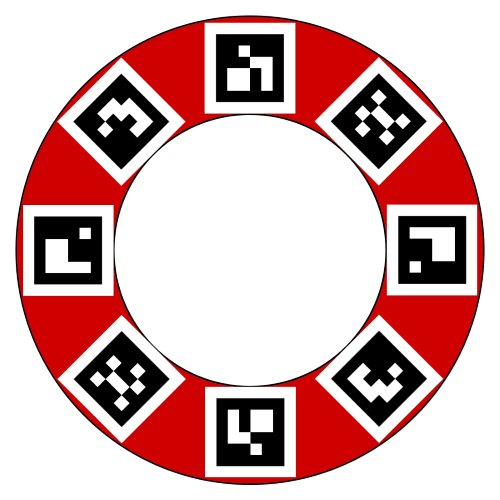
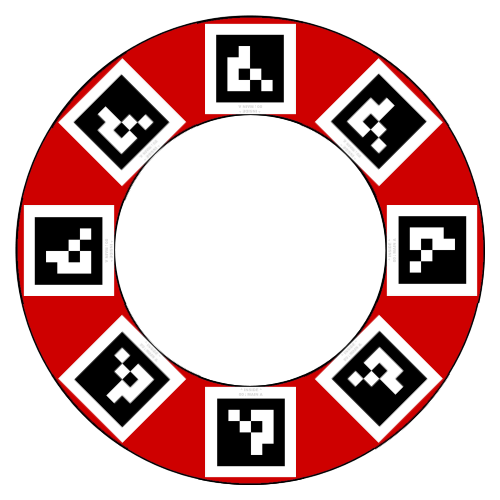
Increase the accuracy in AR lap timer. Change the specification of the AR marker.

diff --git a/src/ofApp.cpp b/src/ofApp.cpp
@@ -10,7 +10,7 @@
 
 // view
 ofVideoGrabber grabber[CAMERA_MAXNUM];
-ofColor myColorYellow, myColorWhite, myColorLGray, myColorLayer;
+ofColor myColorYellow, myColorWhite, myColorLGray, myColorLayer, myColorAlert;
 ofxTrueTypeFontUC myFontNumber, myFontLabel, myFontLap;
 ofxTrueTypeFontUC myFontNumberSub, myFontLabelSub, myFontLapSub;
 ofImage wallImage;
@@ -150,6 +150,8 @@ void ofApp::update() {
                 for (int i = 0; i < cameraNum; i++) {
                     grabber[i].update();
                     camView[i].foundMarkerNum = 0;
+                    camView[i].foundValidMarkerNum = 0;
+                    camView[i].enoughValidMarkers = false;
                     camView[i].prevElapsedSec = raceDuraSecs + WATCH_COUNT_SEC;
                 }
                 toggleRace();
@@ -178,12 +180,39 @@ void ofApp::update() {
         float elp = elapsedTime;
         if (grabber[i].isFrameNew() && arLapEnabled == true) {
             camView[i].aruco.detectMarkers(grabber[i].getPixels());
-            int num = camView[i].aruco.getNumMarkers();
-            if (num == 0 && camView[i].foundMarkerNum >= ARAP_MNUM_THR) {
+            // all markers
+            int anum = camView[i].aruco.getNumMarkers();
+            if (anum == 0) {
+                camView[i].flickerCount++;
+                if (camView[i].flickerCount <= 3) {
+                    anum = camView[i].foundMarkerNum; // anti flicker
+                } else {
+                    camView[i].flickerCount = 0;
+                }
+            } else {
+                camView[i].flickerCount = 0;
+            }
+            // vaild markers
+            int vnum = camView[i].aruco.getNumMarkersValidGate();
+            if (vnum == 0) {
+                camView[i].flickerValidCount++;
+                if (camView[i].flickerValidCount <= 3) {
+                    vnum = camView[i].foundValidMarkerNum; // anti flicker
+                } else {
+                    camView[i].flickerValidCount = 0;
+                }
+            } else {
+                camView[i].flickerValidCount = 0;
+            }
+            // passed gate
+            if (anum == 0 && camView[i].enoughValidMarkers == true
+                && camView[i].foundMarkerNum == camView[i].foundValidMarkerNum) {
                 float lap = elp - camView[i].prevElapsedSec;
                 if (lap < minLapTime) {
                     // ignore too short lap
                     camView[i].foundMarkerNum = 0;
+                    camView[i].foundValidMarkerNum = 0;
+                    camView[i].enoughValidMarkers = false;
                     continue;
                 }
                 if (camView[i].totalLaps >= raceDuraLaps) {
@@ -198,6 +227,8 @@ void ofApp::update() {
                 if (total == raceDuraLaps) {
                     // finish
                     camView[i].foundMarkerNum = 0;
+                    camView[i].foundValidMarkerNum = 0;
+                    camView[i].enoughValidMarkers = false;
                     finishSound.play();
                     speakLap((i + 1), lap, total);
                     continue;
@@ -231,16 +262,17 @@ void ofApp::update() {
                 }
                 speakLap((i + 1), lap, total);
             }
-            if (num == 0) {
-                camView[i].foundMarkerNum = 0;
-            } else if (num > camView[i].foundMarkerNum) {
-                camView[i].foundMarkerNum = num;
+            camView[i].foundMarkerNum = anum;
+            camView[i].foundValidMarkerNum = vnum;
+            if (anum == 0) {
+                camView[i].enoughValidMarkers = false;
+            } else if (vnum >= ARAP_MNUM_THR) {
+                camView[i].enoughValidMarkers = true;
             }
         }
     }
     if (lockOnEnabled == true && lapcnt > 0 && lockcnt == 0) {
-        // xxx experimental
-        resetCameraSolo();
+        resetCameraSolo(); // experimental
     }
     // finish race by laps
     if (raceStarted == true) {
@@ -270,6 +302,27 @@ void drawCamera(int idx) {
     // image
     ofSetColor(myColorWhite);
     grabber[i].draw(camView[i].posX, camView[i].posY, camView[i].width, camView[i].height);
+    // AR marker
+    if (arLapEnabled == true && raceStarted == true && camView[i].totalLaps < raceDuraLaps) {
+        // rect
+        ofPushMatrix();
+        ofTranslate(camView[i].posX, camView[i].posY);
+        ofScale(camView[i].imageScale, camView[i].imageScale, 1);
+        ofSetLineWidth(2);
+        camView[i].aruco.draw2dGate(myColorYellow, myColorAlert);
+        ofPopMatrix();
+        // meter
+        ofSetColor(myColorYellow);
+        string lv = "";
+        for (int j = 0; j < camView[i].foundValidMarkerNum; j++) {
+            lv += "|";
+        }
+        if (isSub) {
+            myFontLapSub.drawString(lv, camView[i].lapPosX, camView[i].lapPosY + (LAP_HEIGHT / 2) + 5);
+        } else {
+            myFontLap.drawString(lv, camView[i].lapPosX, camView[i].lapPosY + LAP_HEIGHT + 10);
+        }
+    }
     // base
     ofSetColor(camView[i].baseColor);
     ofDrawRectangle(camView[i].basePosX, camView[i].basePosY, camView[i].baseWidth, camView[i].baseHeight);
@@ -333,19 +386,6 @@ void drawCamera(int idx) {
             } else {
                 myFontLap.drawString(sout, camView[i].lapPosX, camView[i].lapPosY);
             }
-        }
-    }
-    // AR marker
-    if (arLapEnabled == true && raceStarted == true && camView[i].totalLaps < raceDuraLaps) {
-        ofSetColor(myColorYellow);
-        string lv = "";
-        for (int j = 0; j < camView[i].foundMarkerNum; j++) {
-            lv += "|";
-        }
-        if (isSub) {
-            myFontLapSub.drawString(lv, camView[i].lapPosX, camView[i].lapPosY + (LAP_HEIGHT / 2) + 5);
-        } else {
-            myFontLap.drawString(lv, camView[i].lapPosX, camView[i].lapPosY + LAP_HEIGHT + 10);
         }
     }
 }
@@ -426,7 +466,7 @@ void ofApp::draw(){
 void ofApp::keyPressed(int key) {
     if (raceResultDisplay == true) {
         // race result
-        if (key == 'v' || key == 'V') {
+        if (key == 'v' || key == 'V' || key == ' ') {
             processRaceResultDisplay();
         }
         return;
@@ -691,6 +731,7 @@ void setupColors() {
     myColorWhite = ofColor(COLOR_WHITE);
     myColorLGray = ofColor(COLOR_LGRAY);
     myColorLayer = ofColor(COLOR_LAYER);
+    myColorAlert = ofColor(COLOR_ALERT);
     // pilot
     for (int i = 0; i < CAMERA_MAXNUM; i++) {
         switch(i) {
@@ -810,7 +851,7 @@ void setViewParams() {
     int idx, i;
     int width = ofGetWidth();
     int height = ofGetHeight();
-    float ratio = float(width) / float(height);
+    float ratio = (float)width / (float)height;
     switch (cameraNumVisible) {
         case 1:
             // 1st visible camera
@@ -1029,6 +1070,7 @@ void setViewParams() {
             camView[idx].lapPosXTarget = camView[idx].lapPosXTarget - (LAP_MARGIN_X / 2);
             camView[idx].lapPosYTarget = camView[idx].lapPosYTarget - (LAP_MARGIN_Y / 2);
         }
+        camView[idx].imageScale = (float)(camView[idx].width) / (float)CAMERA_WIDTH;
     }
 }
 
@@ -1066,6 +1108,7 @@ void updateViewParams() {
         camView[idx].height = calcViewParam(camView[idx].heightTarget, camView[idx].height, steps);
         camView[idx].posX = calcViewParam(camView[idx].posXTarget, camView[idx].posX, steps);
         camView[idx].posY = calcViewParam(camView[idx].posYTarget, camView[idx].posY, steps);
+        camView[idx].imageScale = (float)(camView[idx].width) / (float)CAMERA_WIDTH;
         // base
         camView[idx].basePosX = calcViewParam(camView[idx].basePosXTarget, camView[idx].basePosX, steps);
         camView[idx].basePosY = calcViewParam(camView[idx].basePosYTarget, camView[idx].basePosY, steps);
@@ -1226,9 +1269,9 @@ void recvOscCameraFloat(int camid, string method, float argfloat) {
 void toggleOscSpeech() {
     oscSpeechEnabled = !oscSpeechEnabled;
     if (oscSpeechEnabled == true) {
-        ofSystemAlertDialog("Speech on");
+        ofSystemAlertDialog("OSC speech on");
     } else {
-        ofSystemAlertDialog("Speech off");
+        ofSystemAlertDialog("OSC speech off");
     }
 }
 
@@ -1408,6 +1451,10 @@ void toggleRace() {
         ofResetElapsedTimeCounter();
         for (int i = 0; i < cameraNum; i++) {
             camView[i].foundMarkerNum = 0;
+            camView[i].foundValidMarkerNum = 0;
+            camView[i].enoughValidMarkers = false;
+            camView[i].flickerCount = 0;
+            camView[i].flickerValidCount = 0;
             camView[i].prevElapsedSec = WATCH_COUNT_SEC; // countdown
             camView[i].totalLaps = 0;
             camView[i].lastLap = 0;
@@ -1815,7 +1862,7 @@ void drawRaceResult(int pageidx) {
     // message
     line = ARAP_RSLT_LINES - 1;
     ofSetColor(myColorLGray);
-    drawStringBlock(&myFontResultP, "Press V key to continue...", 0, line, ALIGN_CENTER, 1, szl);
+    drawStringBlock(&myFontResultP, "Press SPACE or V key to continue...", 0, line, ALIGN_CENTER, 1, szl);
 }
 
 //--------------------------------------------------------------

diff --git a/src/ofApp.h b/src/ofApp.h
@@ -17,6 +17,7 @@
 #define COLOR_WHITE     255,255,255
 #define COLOR_LGRAY     127,127,127
 #define COLOR_LAYER     0,0,0,223
+#define COLOR_ALERT     255,0,0
 // view
 #define FRAME_RATE      60
 #define MOVE_STEPS      10
@@ -126,6 +127,7 @@ public:
     int posY;
     int posXTarget;
     int posYTarget;
+    float imageScale;
     // base
     ofColor baseColor;
     int basePosX;
@@ -160,9 +162,13 @@ public:
     // AR lap timer
     ofxAruco aruco;
     int foundMarkerNum;
+    int foundValidMarkerNum;
+    bool enoughValidMarkers;
     float prevElapsedSec;
     int totalLaps;
     float lapHistory[ARAP_MAX_RLAPS];
+    int flickerCount;
+    int flickerValidCount;
     // QR reader
     bool qrScanned;
 };

diff --git a/README.md b/README.md
@@ -146,16 +146,13 @@ ARマーカーを利用して、ラップタイムを計測できます。
 
 ![docs/argate.png](docs/argate.png)
 
-以下の4種類のマーカーを、ゲートの周囲に配置してください。
+以下のマーカーを、4個以上、ゲートの周囲に配置してください。またその際に、マーカーの上辺が、ゲートの中央を向くようにしてください。
 
-- [marker_0.png](bin/data/system/marker/marker_0.png)
-- [marker_1.png](bin/data/system/marker/marker_1.png)
-- [marker_2.png](bin/data/system/marker/marker_2.png)
-- [marker_3.png](bin/data/system/marker/marker_3.png)
+- [marker_00_main_a.png](docs/marker_00_main_a.png)
 
 マーカーのサイズは1辺120mmを目安として、通過スピードに応じて調整してください。狭い空間や低速でのレースにおいては、より小さなゲート及びマーカーが適しています。
 
-ラップタイムの計測は、レース中にのみ行われます。4種類のマーカーのうち、同時に2種類以上を検出した後、画面からマーカーが消えたタイミングでラップタイムが確定します。マーカーの検出数に応じて、画面上に黄色い縦線が表示されます。
+ラップタイムの計測は、レース中にのみ行われます。同時に2個以上の正しい向きのマーカーを検出した後、画面からマーカーが消えたタイミングでラップタイムが確定します。マーカーの検出数に応じて、画面上に黄色い縦線が表示されます。
 
 環境によっては、マーカーの認識処理が重く、動作に支障があるかもしれません。その場合は、機能を無効化してください。
 

diff --git a/README_en.md b/README_en.md
@@ -142,16 +142,13 @@ You can measure the lap time using the AR marker.
 
 ![docs/argate.png](docs/argate.png)
 
-Place the following four types of markers around the gate.
+Please place four or more of the following marker around the gate. Make sure the top of the marker faces the center of the gate.
 
-- [marker_0.png](bin/data/system/marker/marker_0.png)
-- [marker_1.png](bin/data/system/marker/marker_1.png)
-- [marker_2.png](bin/data/system/marker/marker_2.png)
-- [marker_3.png](bin/data/system/marker/marker_3.png)
+- [marker_00_main_a.png](docs/marker_00_main_a.png)
 
 The size of the marker should be 120mm per side. Smaller gate and markers may be suitable for low speed race in narrow space.
 
-Lap time will be measured only during the race. After detecting two or more types of markers simultaneously, when the marker disappears from the screen, lap time will be confirmed. Yellow vertical lines will be displayed on the screen according to the number of detected markers.
+Lap time will be measured only during the race. After detecting two or more correctly oriented markers simultaneously, when the marker disappears from the screen, lap time will be confirmed. Yellow vertical lines will be displayed on the screen according to the number of detected markers.
 
 Depending on the environment, recognition processing of markers might be heavy. In that case, please disable the function.
 
